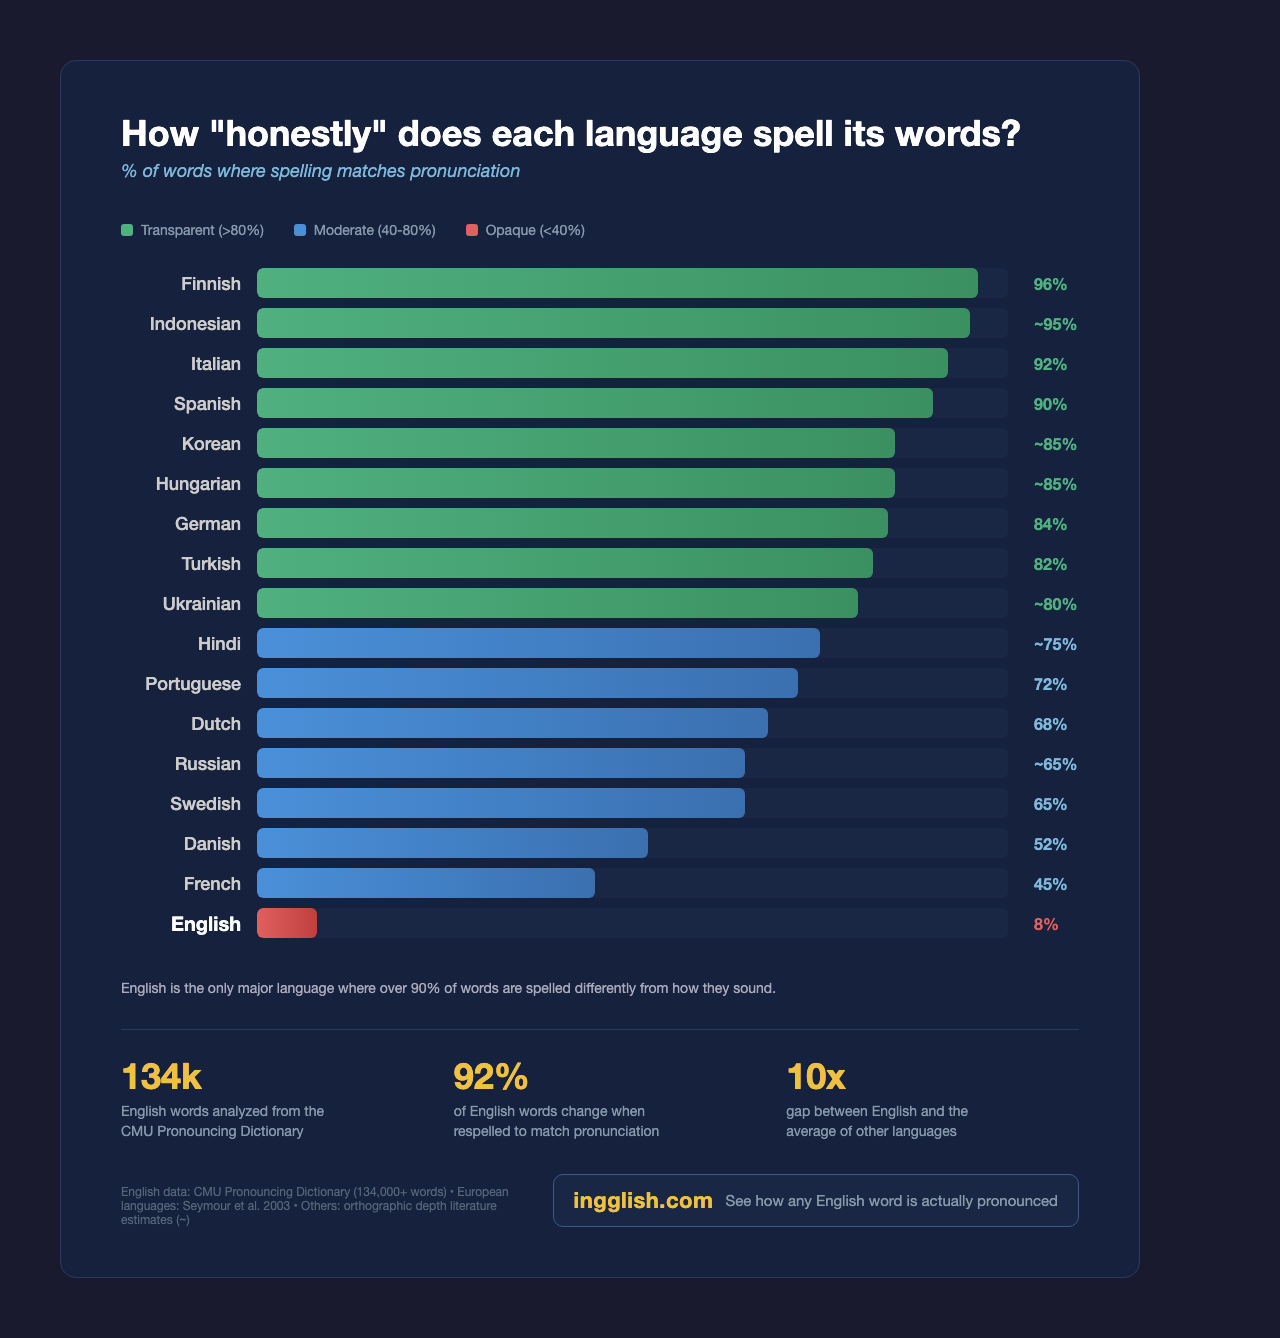
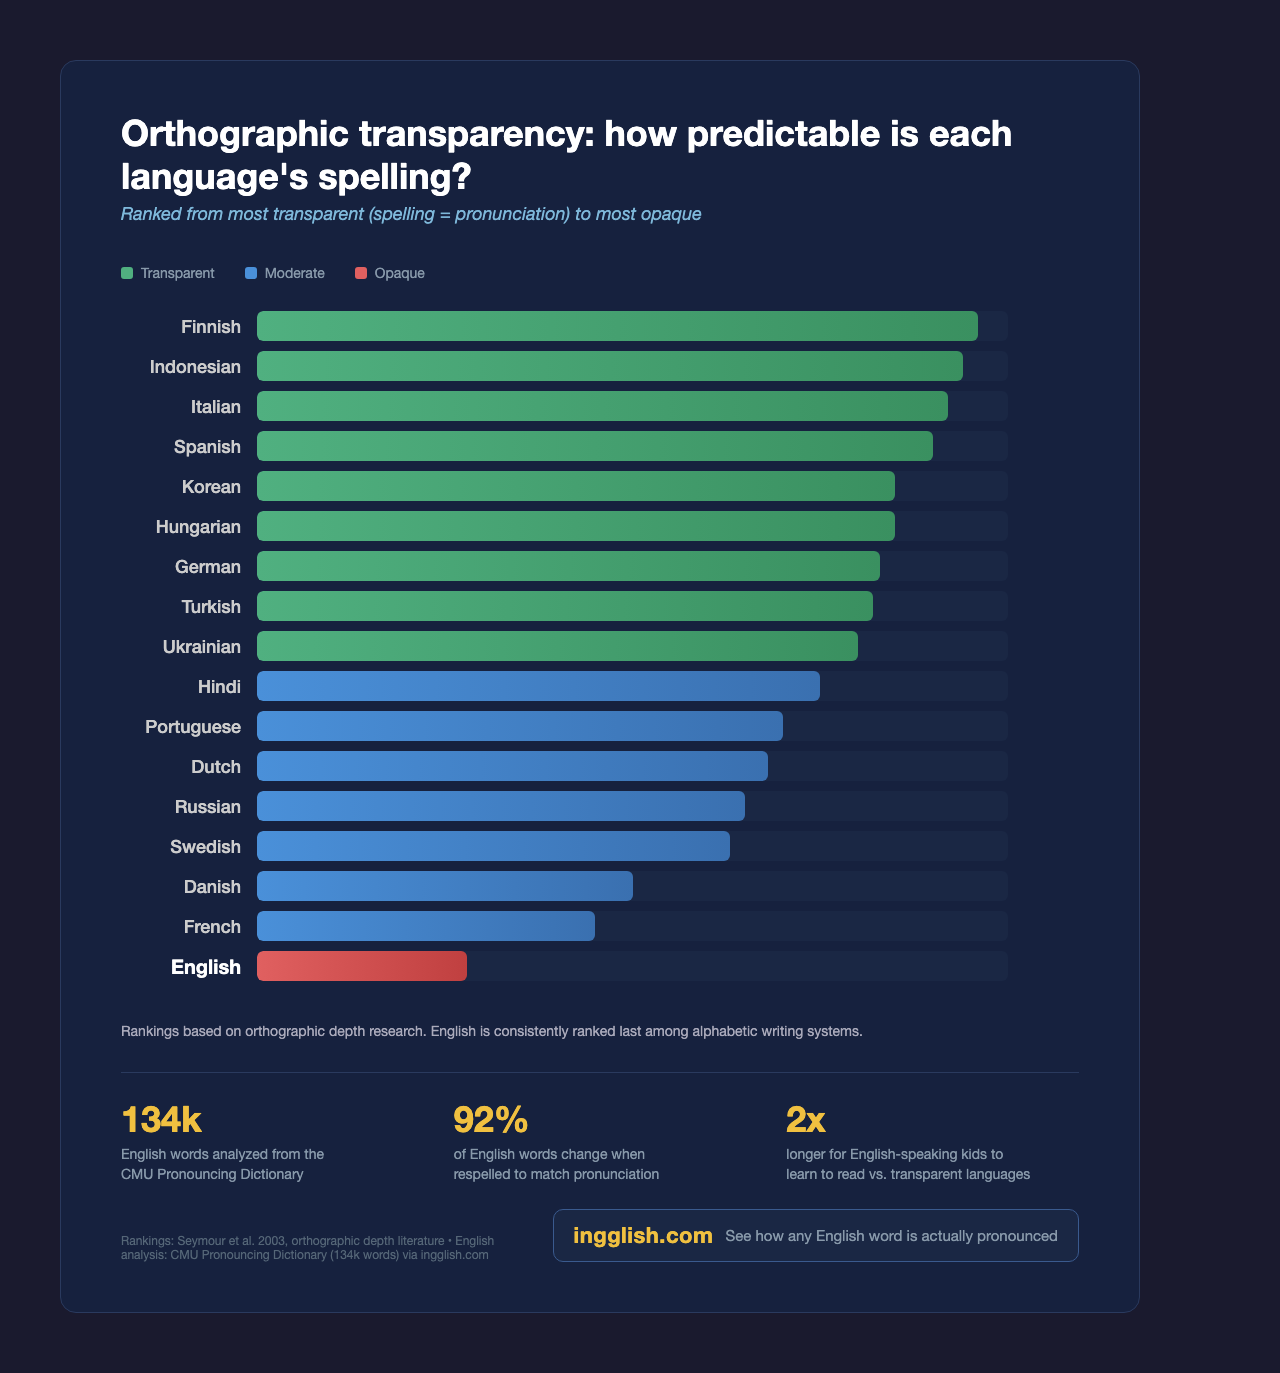
update dataisbeautiful chart with non-European languages and footer layout

diff --git a/social/dataisbeautiful-spelling-transparency.html b/social/dataisbeautiful-spelling-transparency.html
@@ -191,104 +191,104 @@
 </head>
 <body>
 <div class="container">
-  <h1>How "honestly" does each language spell its words?</h1>
-  <div class="subtitle">% of words where spelling matches pronunciation</div>
+  <h1>Orthographic transparency: how predictable is each language's spelling?</h1>
+  <div class="subtitle">Ranked from most transparent (spelling = pronunciation) to most opaque</div>
 
   <div class="legend">
-    <div class="legend-item"><div class="legend-dot dot-transparent"></div> Transparent (>80%)</div>
-    <div class="legend-item"><div class="legend-dot dot-moderate"></div> Moderate (40-80%)</div>
-    <div class="legend-item"><div class="legend-dot dot-opaque"></div> Opaque (<40%)</div>
+    <div class="legend-item"><div class="legend-dot dot-transparent"></div> Transparent</div>
+    <div class="legend-item"><div class="legend-dot dot-moderate"></div> Moderate</div>
+    <div class="legend-item"><div class="legend-dot dot-opaque"></div> Opaque</div>
   </div>
 
   <div class="chart">
     <div class="bar-row bar-transparent">
       <div class="bar-label">Finnish</div>
       <div class="bar-track"><div class="bar-fill" style="width: 96%"></div></div>
-      <div class="bar-pct-outside">96%</div>
+      <div class="bar-pct-outside"></div>
     </div>
     <div class="bar-row bar-transparent">
       <div class="bar-label">Indonesian</div>
-      <div class="bar-track"><div class="bar-fill" style="width: 95%"></div></div>
-      <div class="bar-pct-outside">~95%</div>
+      <div class="bar-track"><div class="bar-fill" style="width: 94%"></div></div>
+      <div class="bar-pct-outside"></div>
     </div>
     <div class="bar-row bar-transparent">
       <div class="bar-label">Italian</div>
       <div class="bar-track"><div class="bar-fill" style="width: 92%"></div></div>
-      <div class="bar-pct-outside">92%</div>
+      <div class="bar-pct-outside"></div>
     </div>
     <div class="bar-row bar-transparent">
       <div class="bar-label">Spanish</div>
       <div class="bar-track"><div class="bar-fill" style="width: 90%"></div></div>
-      <div class="bar-pct-outside">90%</div>
+      <div class="bar-pct-outside"></div>
     </div>
     <div class="bar-row bar-transparent">
       <div class="bar-label">Korean</div>
       <div class="bar-track"><div class="bar-fill" style="width: 85%"></div></div>
-      <div class="bar-pct-outside">~85%</div>
+      <div class="bar-pct-outside"></div>
     </div>
     <div class="bar-row bar-transparent">
       <div class="bar-label">Hungarian</div>
       <div class="bar-track"><div class="bar-fill" style="width: 85%"></div></div>
-      <div class="bar-pct-outside">~85%</div>
+      <div class="bar-pct-outside"></div>
     </div>
     <div class="bar-row bar-transparent">
       <div class="bar-label">German</div>
-      <div class="bar-track"><div class="bar-fill" style="width: 84%"></div></div>
-      <div class="bar-pct-outside">84%</div>
+      <div class="bar-track"><div class="bar-fill" style="width: 83%"></div></div>
+      <div class="bar-pct-outside"></div>
     </div>
     <div class="bar-row bar-transparent">
       <div class="bar-label">Turkish</div>
       <div class="bar-track"><div class="bar-fill" style="width: 82%"></div></div>
-      <div class="bar-pct-outside">82%</div>
+      <div class="bar-pct-outside"></div>
     </div>
     <div class="bar-row bar-transparent">
       <div class="bar-label">Ukrainian</div>
       <div class="bar-track"><div class="bar-fill" style="width: 80%"></div></div>
-      <div class="bar-pct-outside">~80%</div>
+      <div class="bar-pct-outside"></div>
     </div>
     <div class="bar-row bar-other">
       <div class="bar-label">Hindi</div>
       <div class="bar-track"><div class="bar-fill" style="width: 75%"></div></div>
-      <div class="bar-pct-outside">~75%</div>
+      <div class="bar-pct-outside"></div>
     </div>
     <div class="bar-row bar-other">
       <div class="bar-label">Portuguese</div>
-      <div class="bar-track"><div class="bar-fill" style="width: 72%"></div></div>
-      <div class="bar-pct-outside">72%</div>
+      <div class="bar-track"><div class="bar-fill" style="width: 70%"></div></div>
+      <div class="bar-pct-outside"></div>
     </div>
     <div class="bar-row bar-other">
       <div class="bar-label">Dutch</div>
       <div class="bar-track"><div class="bar-fill" style="width: 68%"></div></div>
-      <div class="bar-pct-outside">68%</div>
+      <div class="bar-pct-outside"></div>
     </div>
     <div class="bar-row bar-other">
       <div class="bar-label">Russian</div>
       <div class="bar-track"><div class="bar-fill" style="width: 65%"></div></div>
-      <div class="bar-pct-outside">~65%</div>
+      <div class="bar-pct-outside"></div>
     </div>
     <div class="bar-row bar-other">
       <div class="bar-label">Swedish</div>
-      <div class="bar-track"><div class="bar-fill" style="width: 65%"></div></div>
-      <div class="bar-pct-outside">65%</div>
+      <div class="bar-track"><div class="bar-fill" style="width: 63%"></div></div>
+      <div class="bar-pct-outside"></div>
     </div>
     <div class="bar-row bar-other">
       <div class="bar-label">Danish</div>
-      <div class="bar-track"><div class="bar-fill" style="width: 52%"></div></div>
-      <div class="bar-pct-outside">52%</div>
+      <div class="bar-track"><div class="bar-fill" style="width: 50%"></div></div>
+      <div class="bar-pct-outside"></div>
     </div>
     <div class="bar-row bar-other">
       <div class="bar-label">French</div>
       <div class="bar-track"><div class="bar-fill" style="width: 45%"></div></div>
-      <div class="bar-pct-outside">45%</div>
+      <div class="bar-pct-outside"></div>
     </div>
     <div class="bar-row bar-english">
       <div class="bar-label">English</div>
-      <div class="bar-track"><div class="bar-fill" style="width: 8%"></div></div>
-      <div class="bar-pct-outside">8%</div>
+      <div class="bar-track"><div class="bar-fill" style="width: 28%"></div></div>
+      <div class="bar-pct-outside"></div>
     </div>
   </div>
 
-  <div class="callout">English is the only major language where over 90% of words are spelled differently from how they sound.</div>
+  <div class="callout">Rankings based on orthographic depth research. English is consistently ranked last among alphabetic writing systems.</div>
 
   <div class="annotation">
     <div class="annotation-item">
@@ -300,12 +300,12 @@
       <div class="desc">of English words change when<br>respelled to match pronunciation</div>
     </div>
     <div class="annotation-item">
-      <div class="value">10x</div>
-      <div class="desc">gap between English and the<br>average of other languages</div>
+      <div class="value">2x</div>
+      <div class="desc">longer for English-speaking kids to<br>learn to read vs. transparent languages</div>
     </div>
   </div>
   <div class="footer">
-    <div class="source">English data: CMU Pronouncing Dictionary (134,000+ words) &bull; European languages: Seymour et al. 2003 &bull; Others: orthographic depth literature estimates (~)</div>
+    <div class="source">Rankings: Seymour et al. 2003, orthographic depth literature &bull; English analysis: CMU Pronouncing Dictionary (134k words) via ingglish.com</div>
     <div class="site-link">
       <span class="url">ingglish.com</span>
       <span class="tagline">See how any English word is actually pronounced</span>
